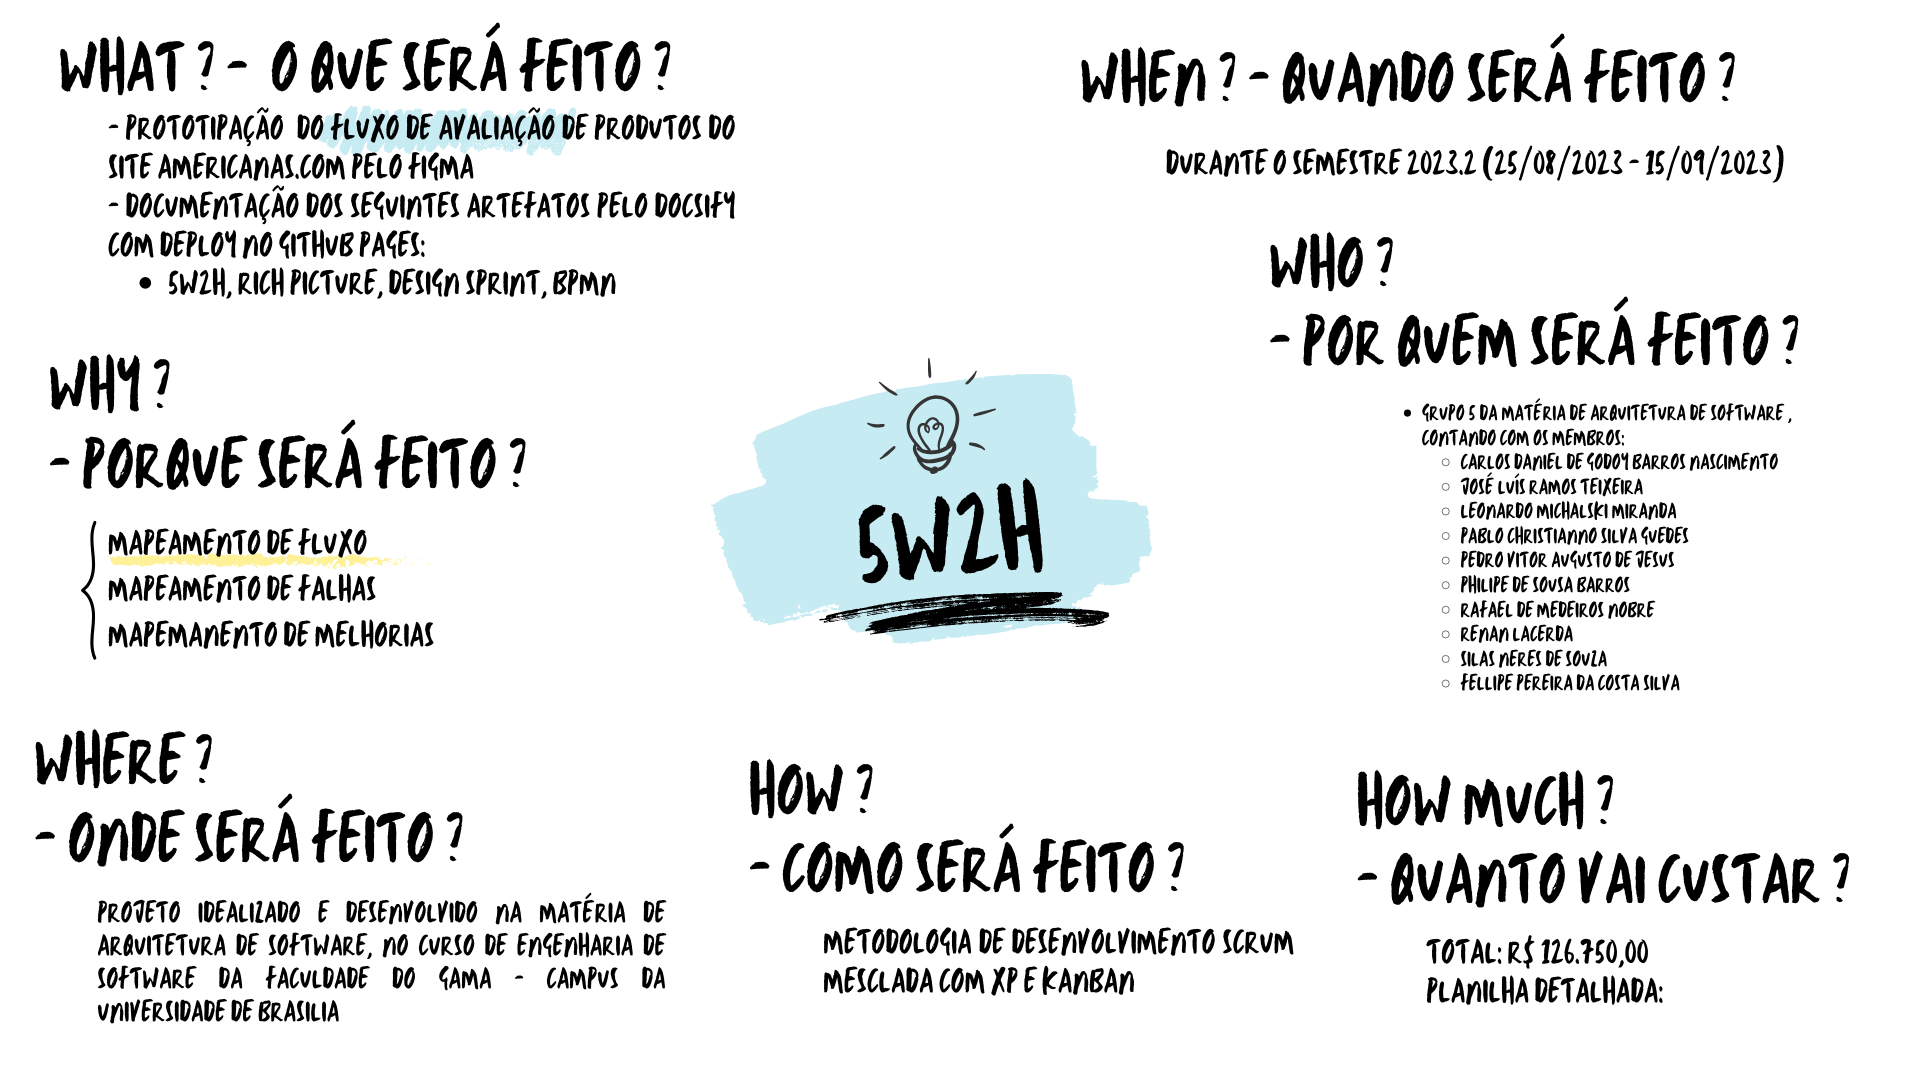
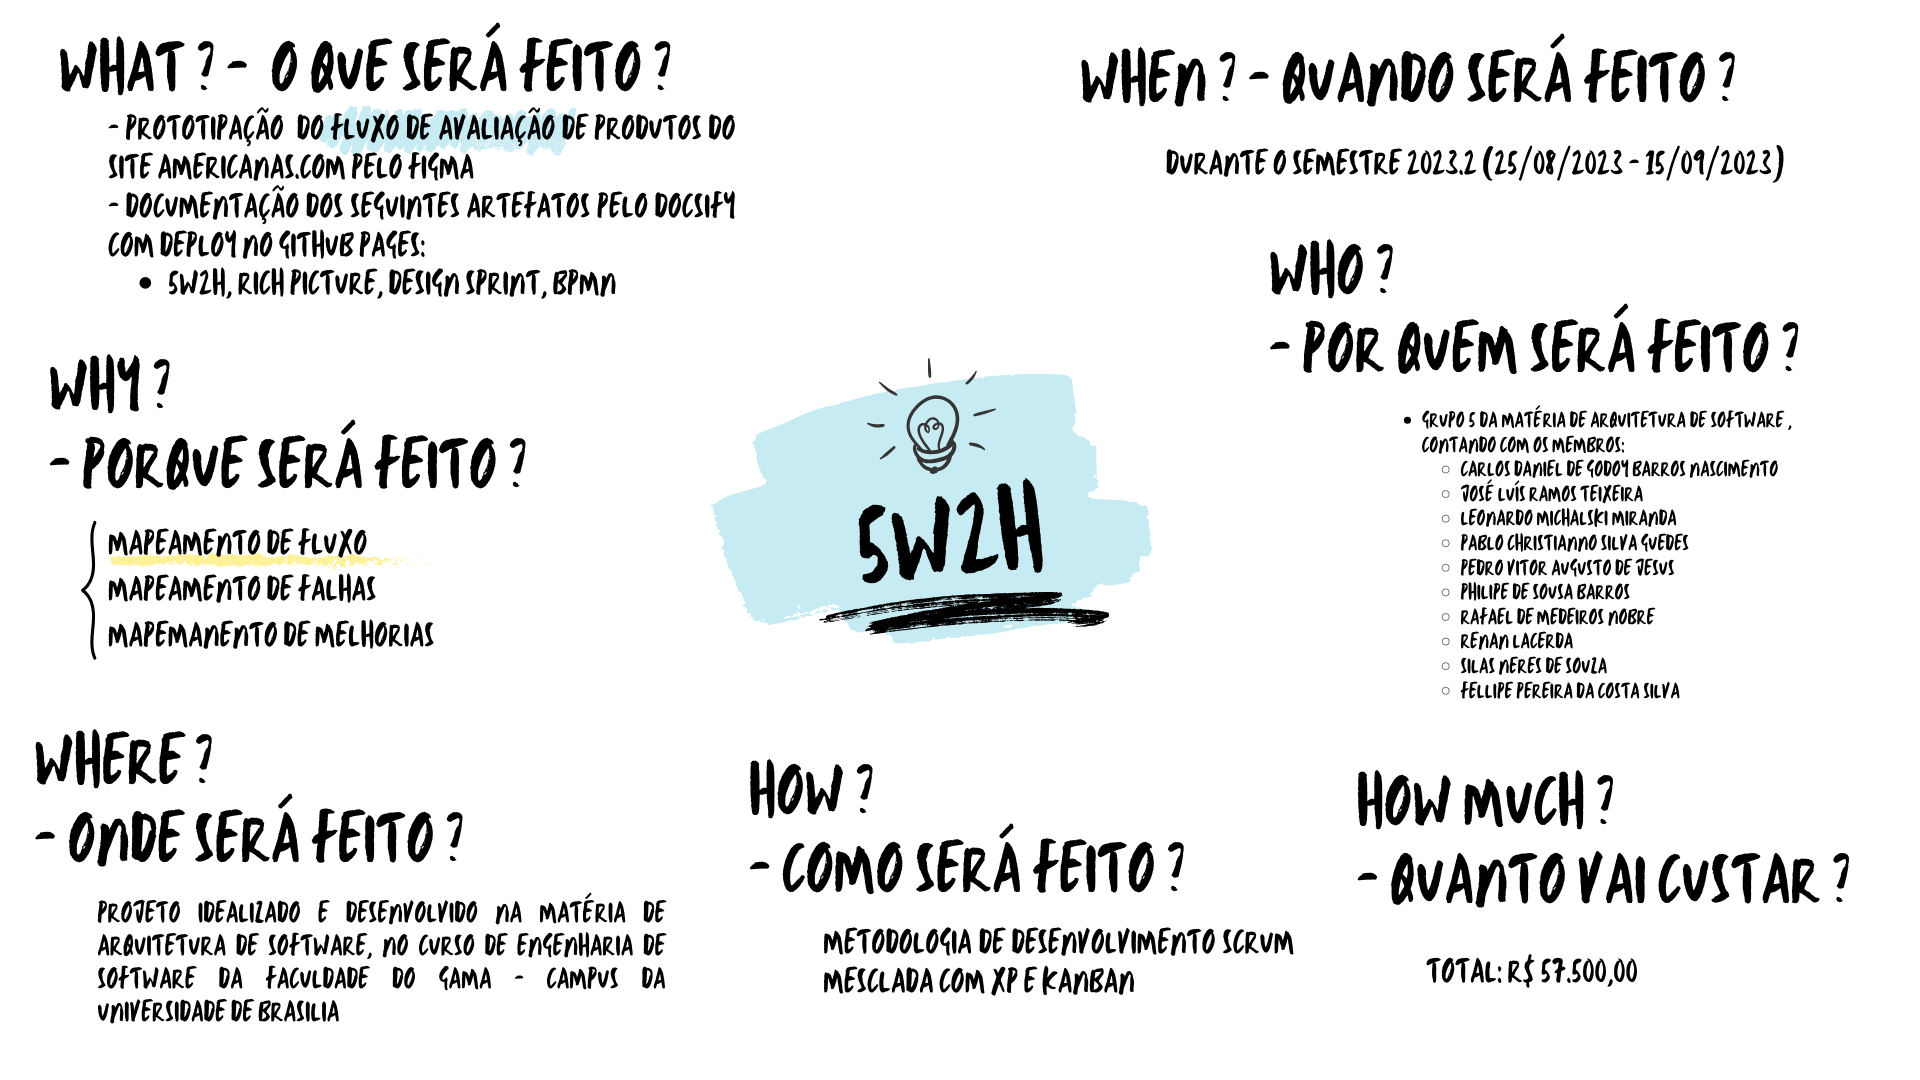
docs: Adiciona descrição 5w2h
https://github.com/UnBArqDsw2023-2/2023.2_G5_ProjetoAmericanas/issues/4

Changed region(s): [[0.6562, 0.2139, 0.9375, 0.6417], [0.7188, 0.8556, 0.875, 0.9472]]

diff --git a/docs/Base/1.1.AbordagemNaoEspecifica.md b/docs/Base/1.1.AbordagemNaoEspecifica.md
@@ -11,7 +11,44 @@
 
 **Definição:** O 5W2H tem como objetivo principal auxiliar no planejamento de ações, pois ele ajuda a esclarecer questionamentos, sanar dúvidas sobre um problema ou tomar decisões. Assim, seu uso traz benefícios a como facilidade na compreensão de fatos e um melhor aproveitamento de informações. Isso acontece pois o 5W2H ajuda a obter respostas que clareiam cenários e ajudam a organizar e sistematizar ideias.
 
-[5W2H](docs\img\5W2H.png)
+<img src="./img/5W2H.png">
+
+**Descrição:**
+
+#### What ? - O que será feito ?
+- Prototipação  do fluxo de avaliação de produtos do site americanas.com pelo figma
+- Documentação dos seguintes artefatos pelo docsify com deploy no github pages:
+- 5w2h, Rich picture, design Sprint, bpmn
+
+#### Why ? - Porque será feito ?
+- Mapeamento de fluxo
+- Mapeamento de falhas
+- mapemanento de melhorias
+
+#### Where ? - Onde será feito ?
+Projeto idealizado e desenvolvido na matéria de arquitetura de software, no curso de engenharia de software da faculdade do gama - campus da universidade de brasilia
+
+#### When ? - Quando será feito ?
+Durante o semestre 2023.2 (25/08/2023 - 15/09/2023)
+
+#### Who ? - Quem por quem será feito ?
+Grupo 5 da matéria de arquitetura de software, contando com os membros:
+* Carlos Daniel de Godoy Barros Nascimento
+* José Luís Ramos Teixeira
+* Leonardo Michalski Miranda
+* Pablo Christianno Silva Guedes
+* Pedro Vitor Augusto de Jesus
+* Philipe de Sousa Barros
+* Rafael de Medeiros Nobre
+* Renan Lacerda
+* Silas Neres de Souza
+* Fellipe Pereira da Costa Silva
+
+#### How ? - Como será feito ?
+Metodologia de desenvolvimento Scrum mesclada com XP e Kanban
+
+#### How much ? - Quanto vai custar ?
+Total: R$ 57.500,00
 
 ### Definição de Custos
 
